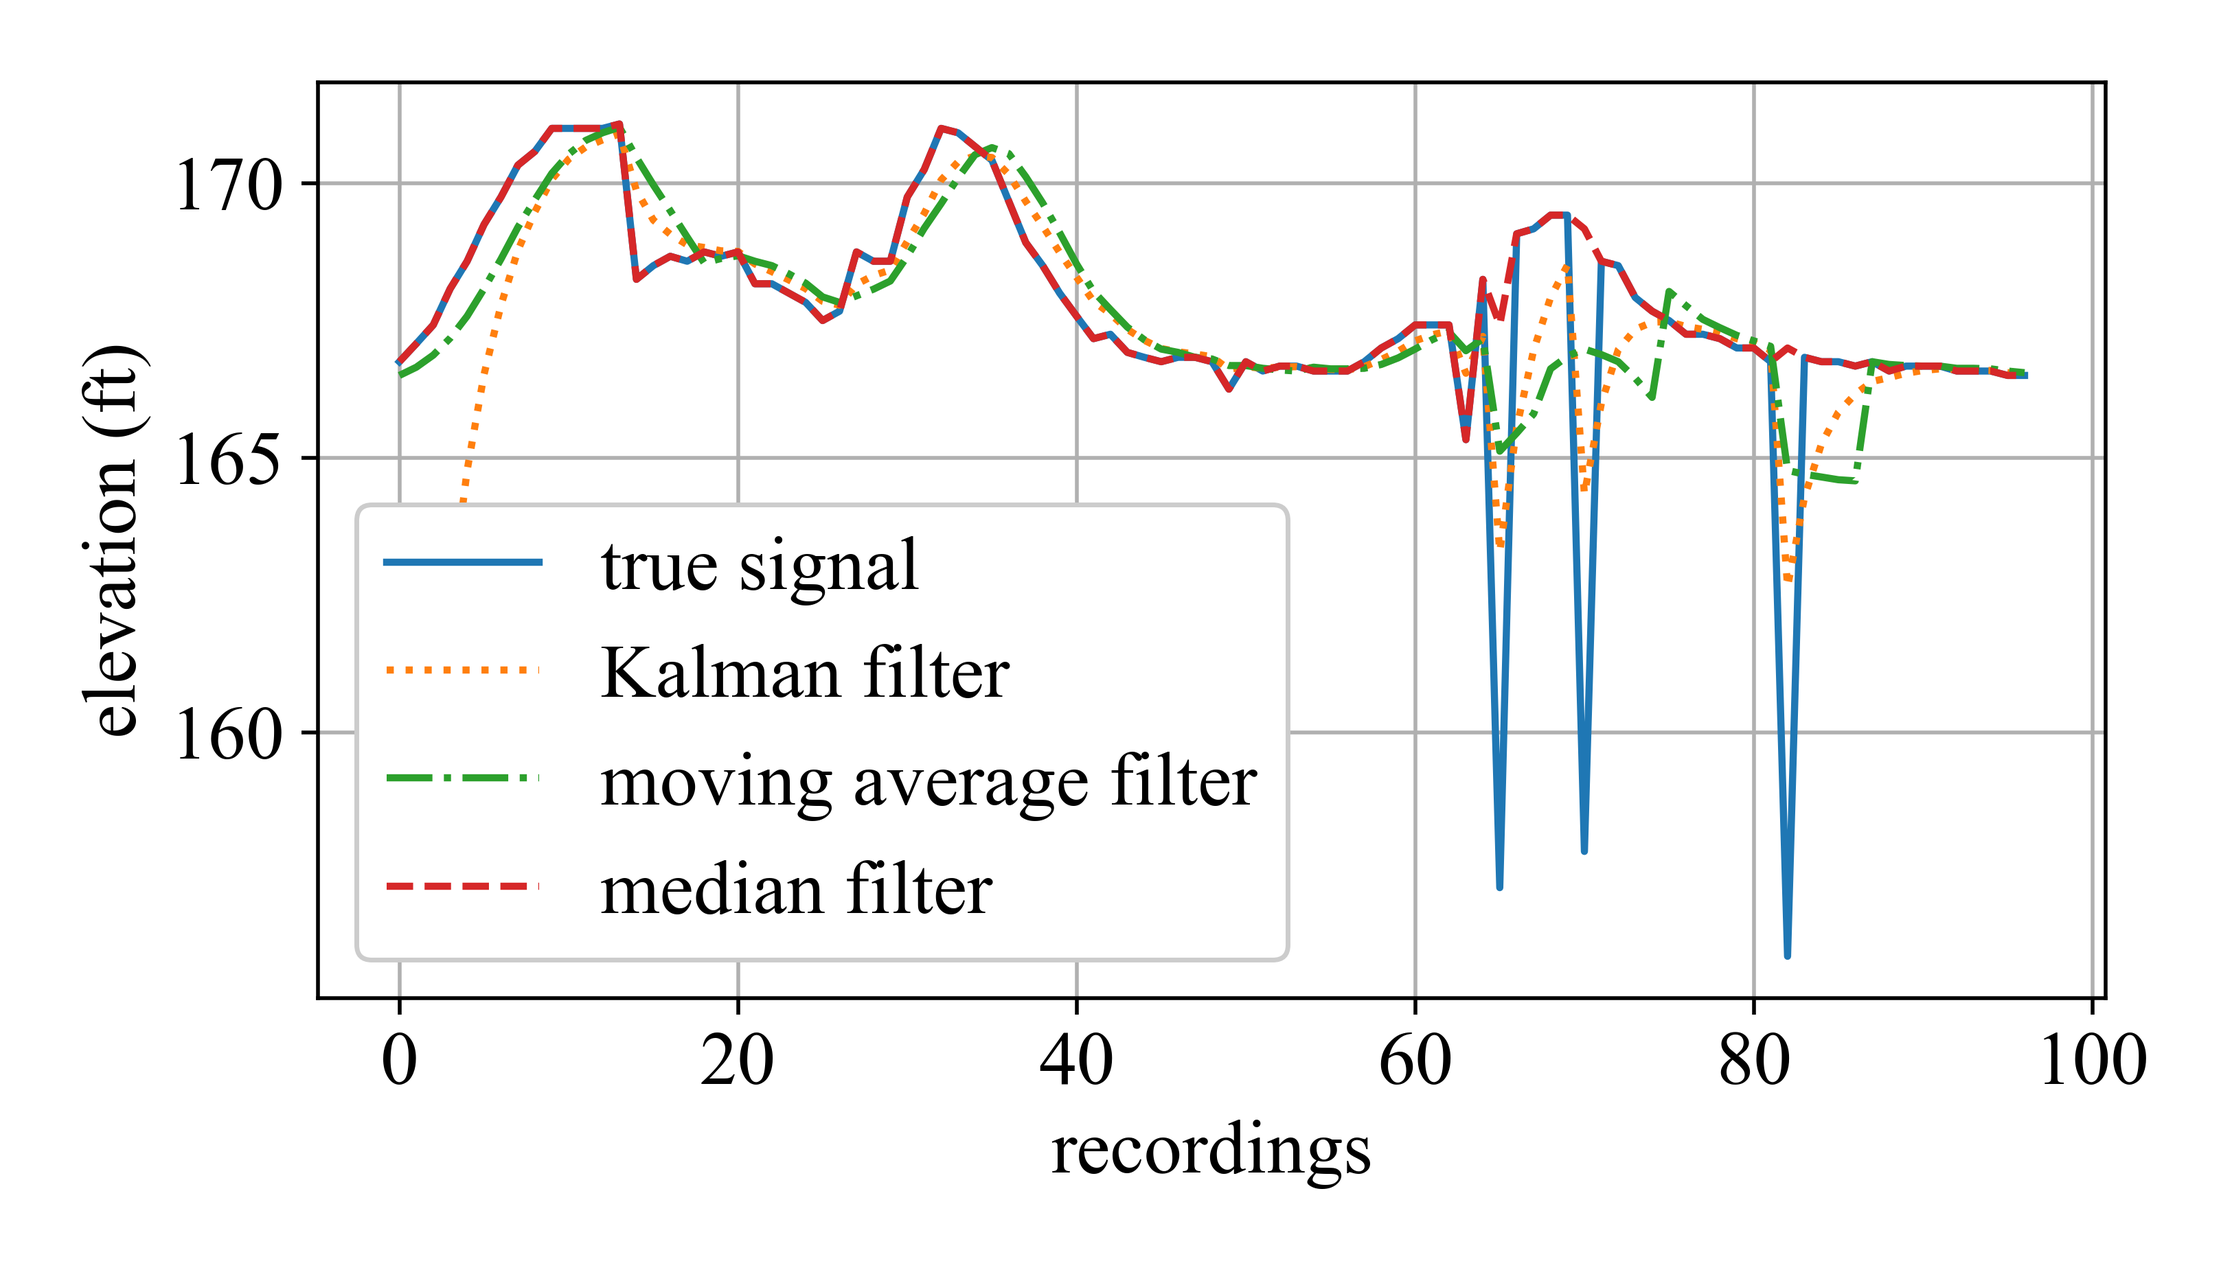
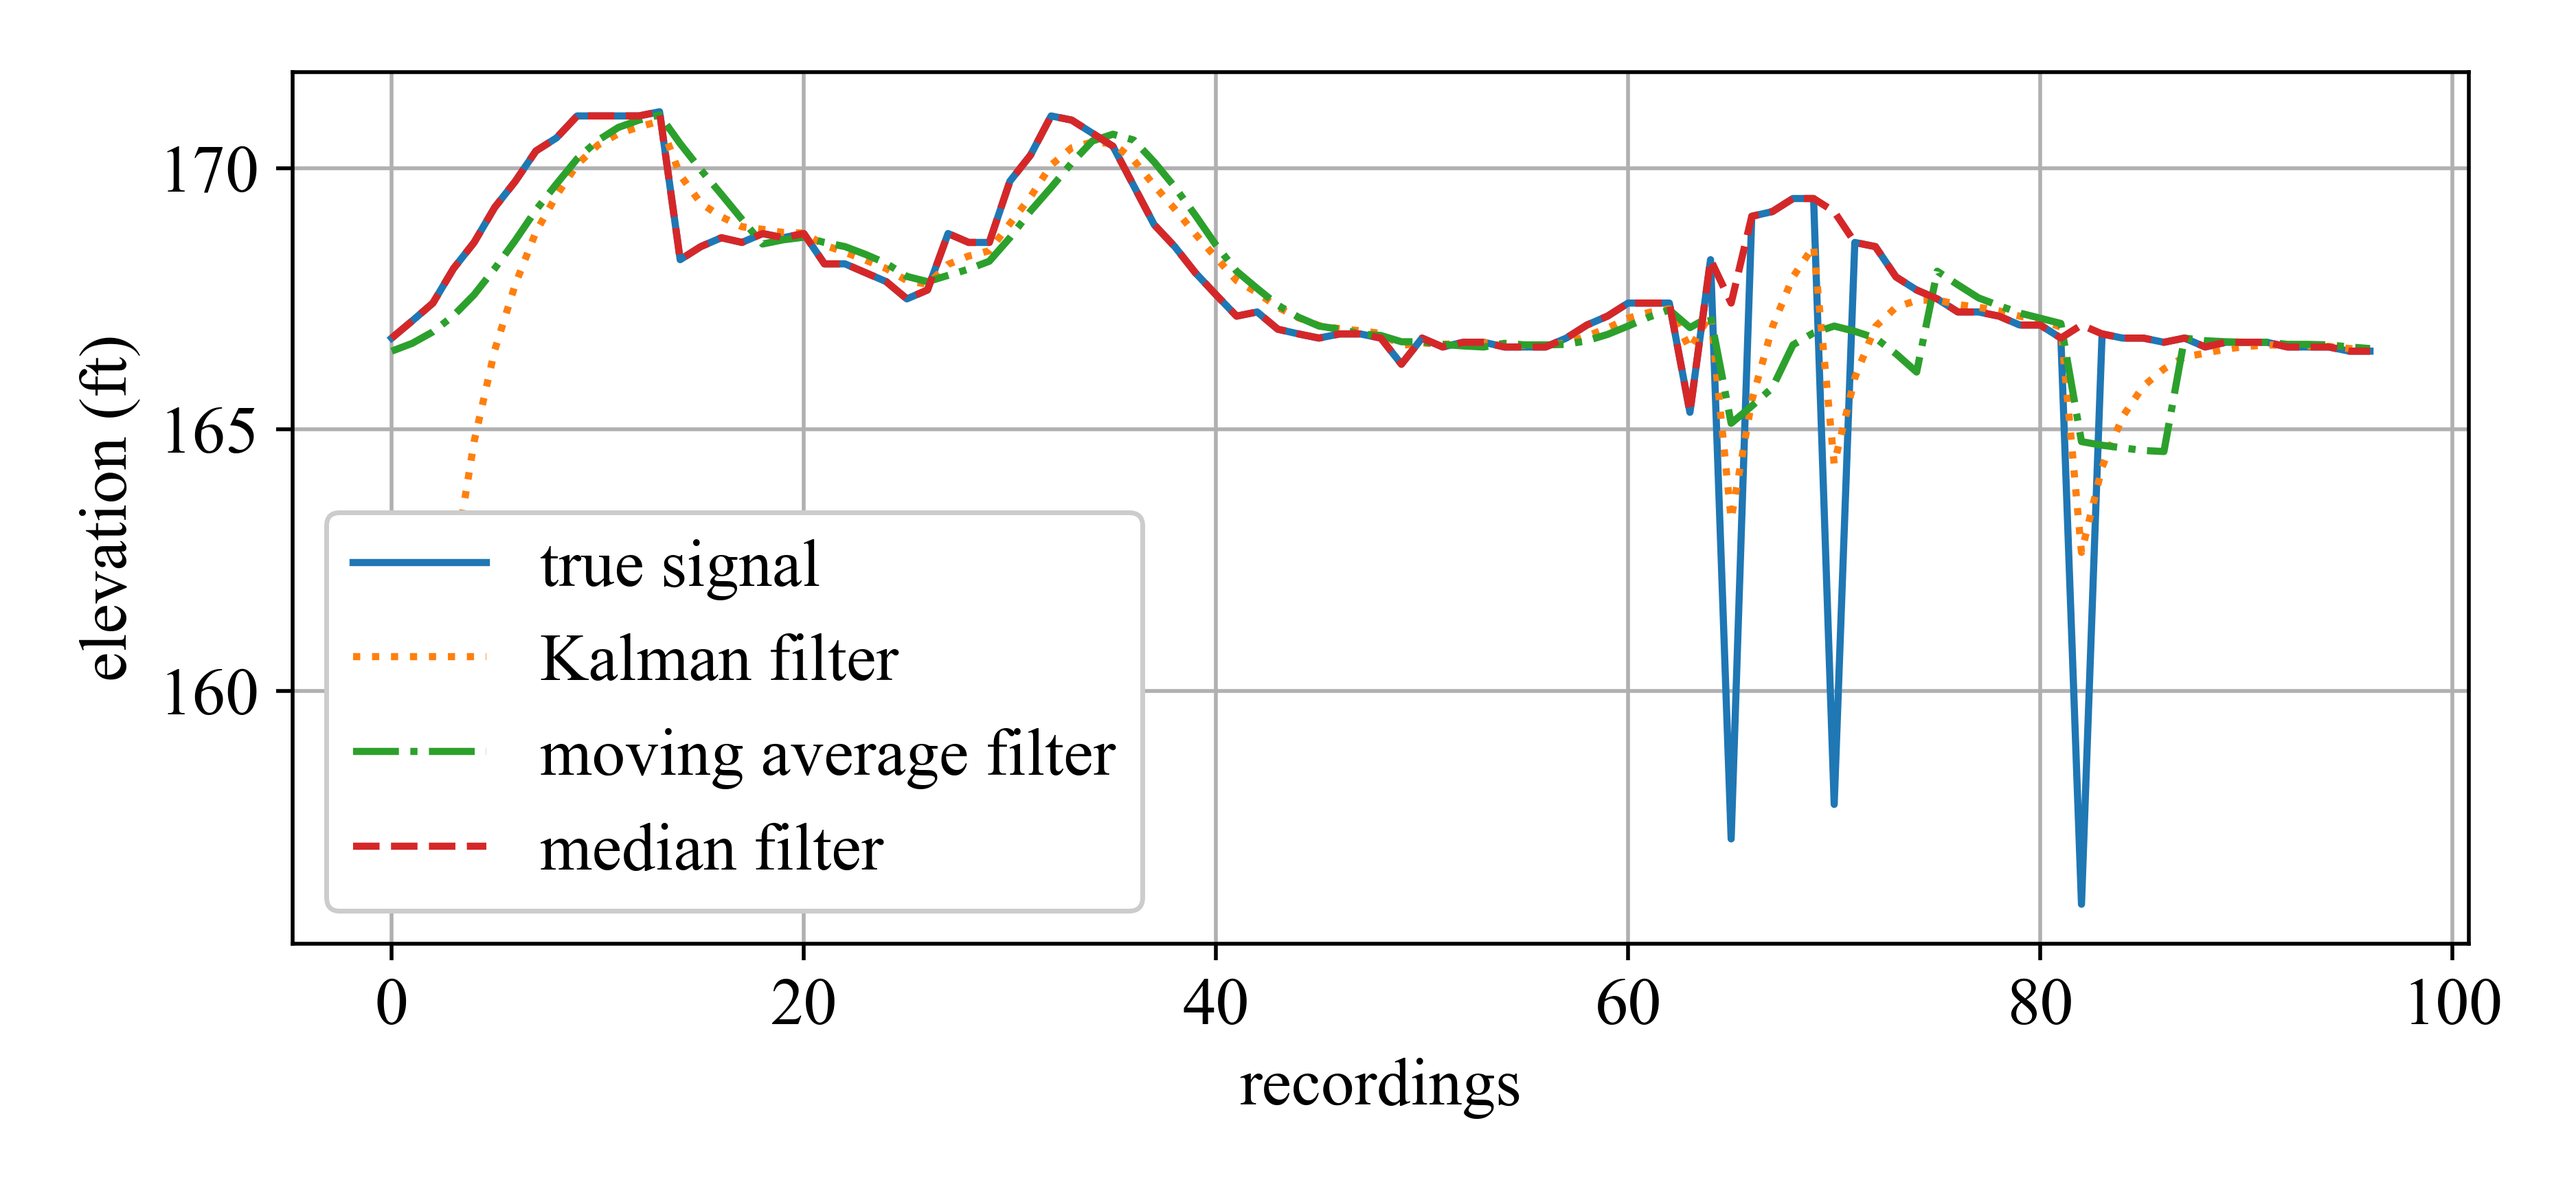
reduce font

Changed region(s): [[0.0311, 0.0309, 0.9634, 0.864], [0.4662, 0.864, 0.6215, 0.9257]]

diff --git a/characteristic data/filtering/filter_plots.py b/characteristic data/filtering/filter_plots.py
@@ -13,7 +13,7 @@ import pandas as pd
 import pylab as pl
 import numpy as np
 plt.rcParams["font.family"] = "Times New Roman"
-mpl.rcParams.update({'font.size': 16})
+mpl.rcParams.update({'font.size': 14})
 
 import IPython as IP
 IP.get_ipython().magic('reset -sf')
@@ -24,7 +24,7 @@ filter_df = pd.read_csv('filters.csv')
 x = np.array(range(0,97))
 
 #%% Comparing filters
-plt.figure(figsize=(6.5,3.7))
+plt.figure(figsize=(7.5,3.5))
 plt.plot(x, filter_df["true signal"], label="true signal")
 plt.plot(x, filter_df["kalman"], ":", label="Kalman filter")
 plt.plot(x, filter_df["moving average"], "-.",  label="moving average filter")
